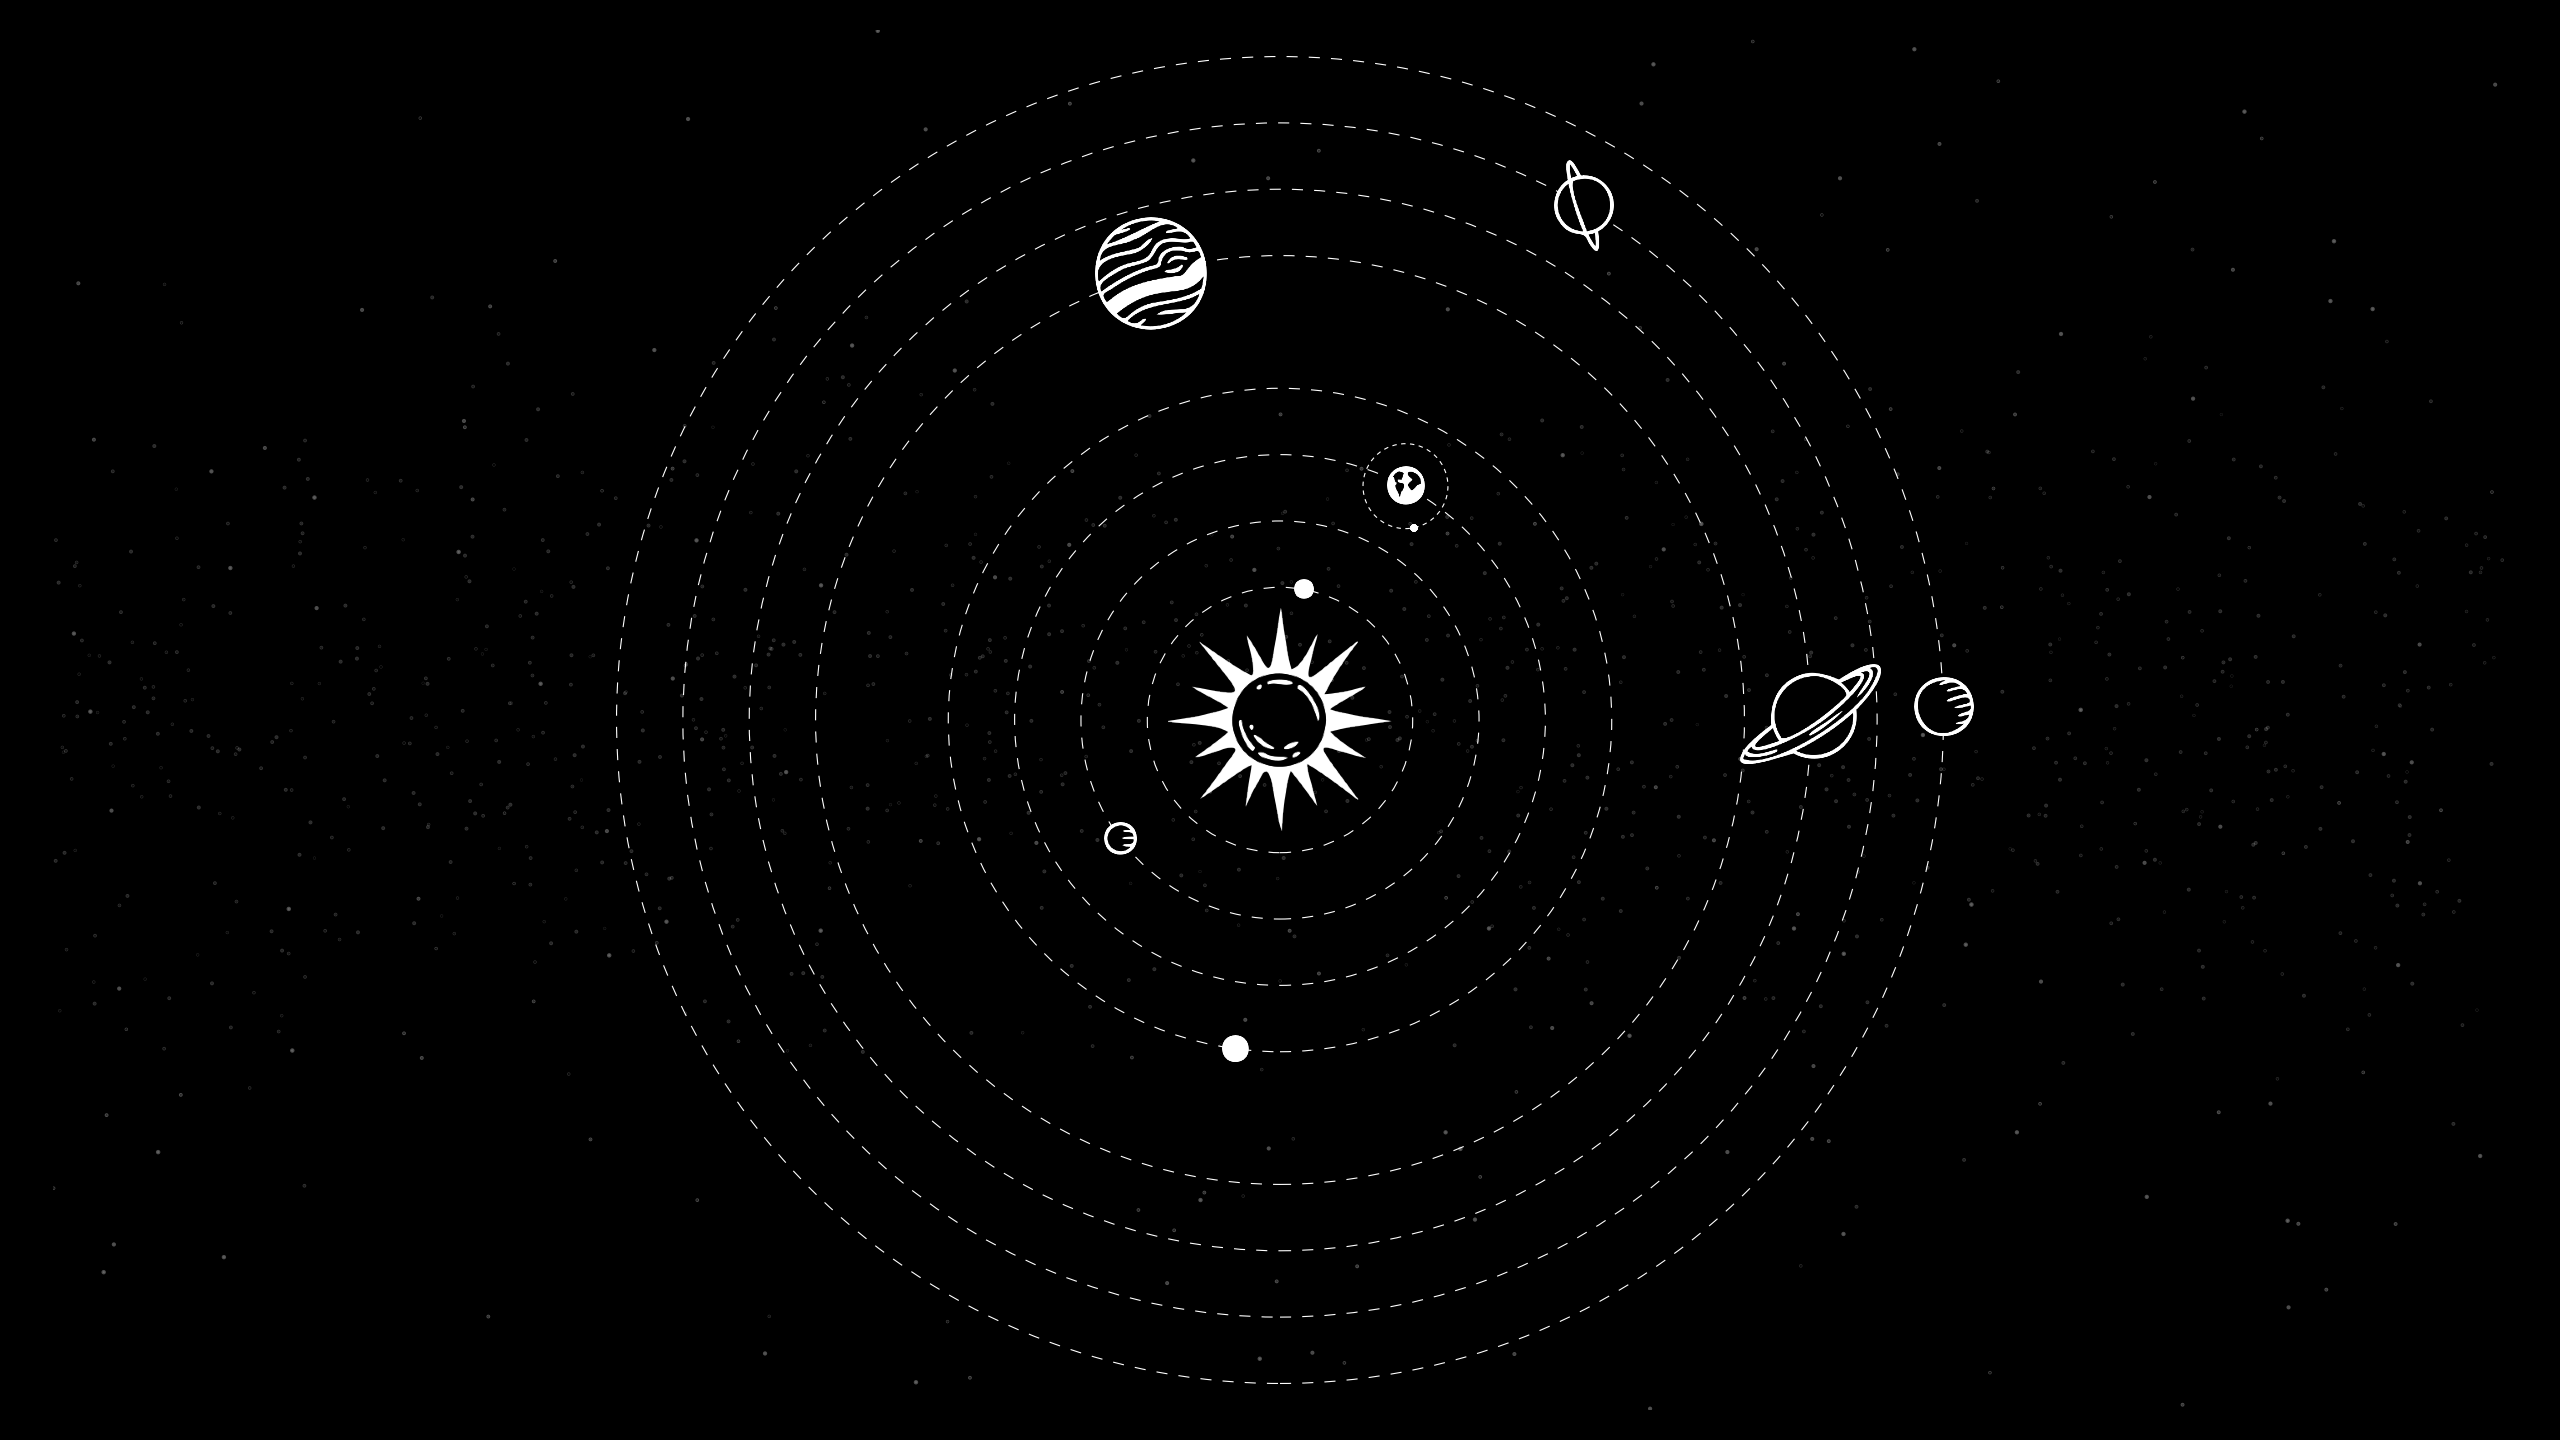
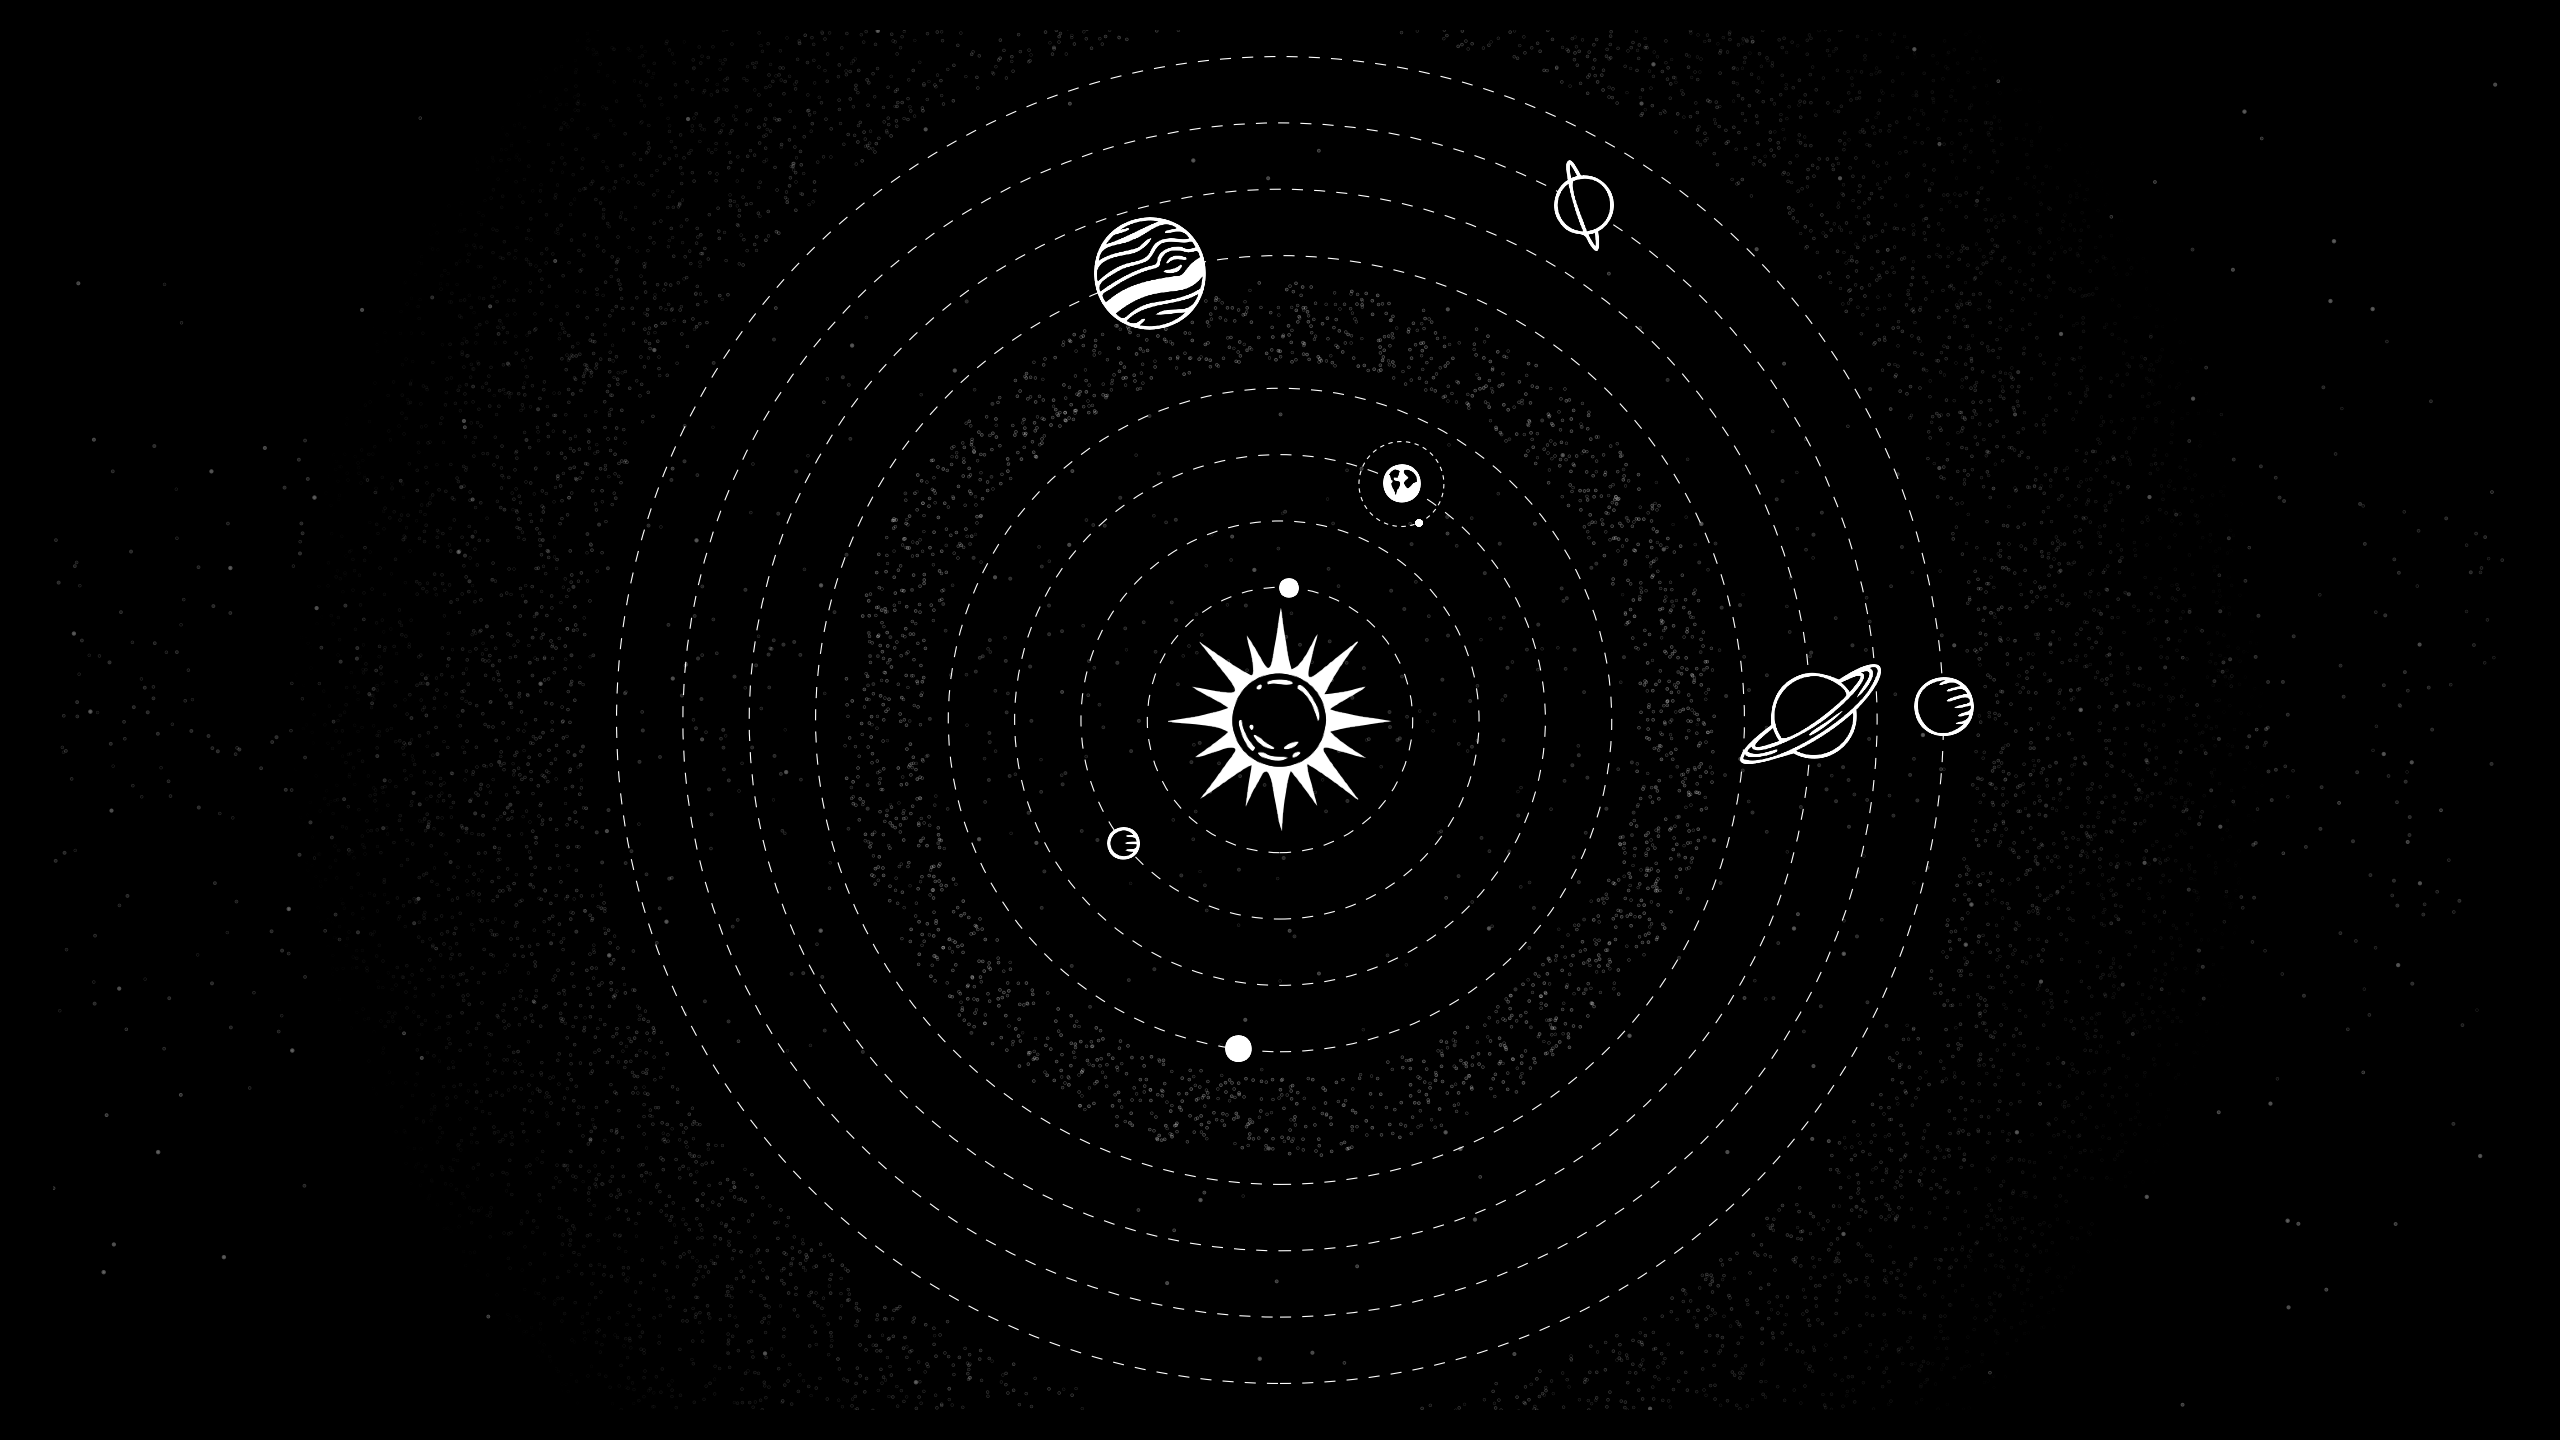
Asteroid belt and Kuiper belt

diff --git a/solarmap.py b/solarmap.py
@@ -7,14 +7,15 @@ import io
 import cairosvg
 import numpy as np
 
-#Feature improvements
-#TODO: Dwarf planets (Pluto, Ceres, Haumea, Makemake, Eris)
-#TODO: Asteroid belt SVG icon (one or multiple clusters?)
-#TODO: Asteroid belt rotation (one or multiple?))
-#TODO: Moons (Galilean moons, Titan, Mars moons)
-#TODO: Comets (Halley, Hale-Bopp)
 
-#Visual improvements
+#Feature additions
+#TODO: Asteroid belt rotation
+#TODO: Trojan asteroid cluters (both sides of Jupiter) + rotation
+#TODO: Dwarf planets? (Pluto, Ceres, Haumea, Makemake, Eris)
+#TODO: Moons? (Galilean moons, Titan, Mars moons)
+#TODO: Comets? (Halley, Hale-Bopp)
+
+#Visual customizations
 #TODO: Optional labels for planets
 #TODO: Optional background stars
 #TODO: Optional colors to planets, b&w or colored
@@ -145,8 +146,53 @@ for name, L in longitudes.items():
     ab = AnnotationBbox(imagebox, (x, y), frameon=False)
     ax.add_artist(ab)
 
-#   Earth's Moon
-#       Moon ring
+
+
+
+# Asteroids
+#   Asteroid belt between Mars and Jupiter
+mars_r = planet_radii['Mars']
+jupiter_r = planet_radii['Jupiter']
+asteroid_belt_inner = mars_r + (jupiter_r - mars_r) * 0.2
+asteroid_belt_outer = mars_r + (jupiter_r - mars_r) * 0.8
+
+#   Generate asteroids
+np.random.seed(123)
+num_asteroids = 2000
+asteroid_angles = np.random.uniform(0, 2 * np.pi, num_asteroids)
+asteroid_radii = np.random.uniform(asteroid_belt_inner, asteroid_belt_outer, num_asteroids)
+asteroid_x = cx + asteroid_radii * np.cos(asteroid_angles)
+asteroid_y = cy + asteroid_radii * np.sin(asteroid_angles)
+asteroid_sizes = np.random.uniform(0.05, 0.3, num_asteroids)
+
+ax.scatter(asteroid_x, asteroid_y, s=asteroid_sizes, c='white', alpha=0.4, marker='.')
+
+#   Kuiper belt beyond Neptune
+neptune_r = planet_radii['Neptune']
+kuiper_inner = neptune_r * 1.05
+kuiper_outer = neptune_r * 1.5
+
+#   Generate Kuiper belt objects
+num_kuiper = 10000
+kuiper_angles = np.random.uniform(0, 2 * np.pi, num_kuiper)
+kuiper_radii = np.random.uniform(kuiper_inner, kuiper_outer, num_kuiper)
+kuiper_x = cx + kuiper_radii * np.cos(kuiper_angles)
+kuiper_y = cy + kuiper_radii * np.sin(kuiper_angles)
+kuiper_sizes = np.random.uniform(0.03, 0.25, num_kuiper)
+
+#   Fade alpha based on distance
+kuiper_alphas = 1.0 - (kuiper_radii - kuiper_inner) / (kuiper_outer - kuiper_inner)
+kuiper_alphas *= 0.3
+
+#   Single scatter call with alpha array
+ax.scatter(kuiper_x, kuiper_y, s=kuiper_sizes, c='white', 
+           alpha=kuiper_alphas, marker='.')
+
+
+
+
+# Earth's Moon
+#     Moon ring
 moon_ring_size = 250 # To keep Moon ring consistent across DPIs
 earth_ring_r = (r_base / 10) * (dpi / moon_ring_size)
 ax.add_patch(
@@ -158,7 +204,7 @@ ax.add_patch(
         color='white',
         linestyle=(0, (4, 4))))
 
-#       Moon's position relative to Earth
+#     Moon's position relative to Earth
 moon_vec = GeoVector(Body.Moon, utc, True)
 moon_angle = math.degrees(math.atan2(moon_vec.y, moon_vec.x))
 moon_theta_deg = 0 - moon_angle
@@ -166,10 +212,11 @@ moon_theta = math.radians(-moon_theta_deg)
 moon_x = earth_x + earth_ring_r * math.cos(moon_theta)
 moon_y = earth_y + earth_ring_r * math.sin(moon_theta)
 
-#       Plot Moon icon
+#     Plot Moon icon
 moon_imagebox = svg_to_imagebox("icons/moon.svg", zoom=0.08)
 moon_ab = AnnotationBbox(moon_imagebox, (moon_x, moon_y), frameon=False)
 ax.add_artist(moon_ab)
+
 
 
 
